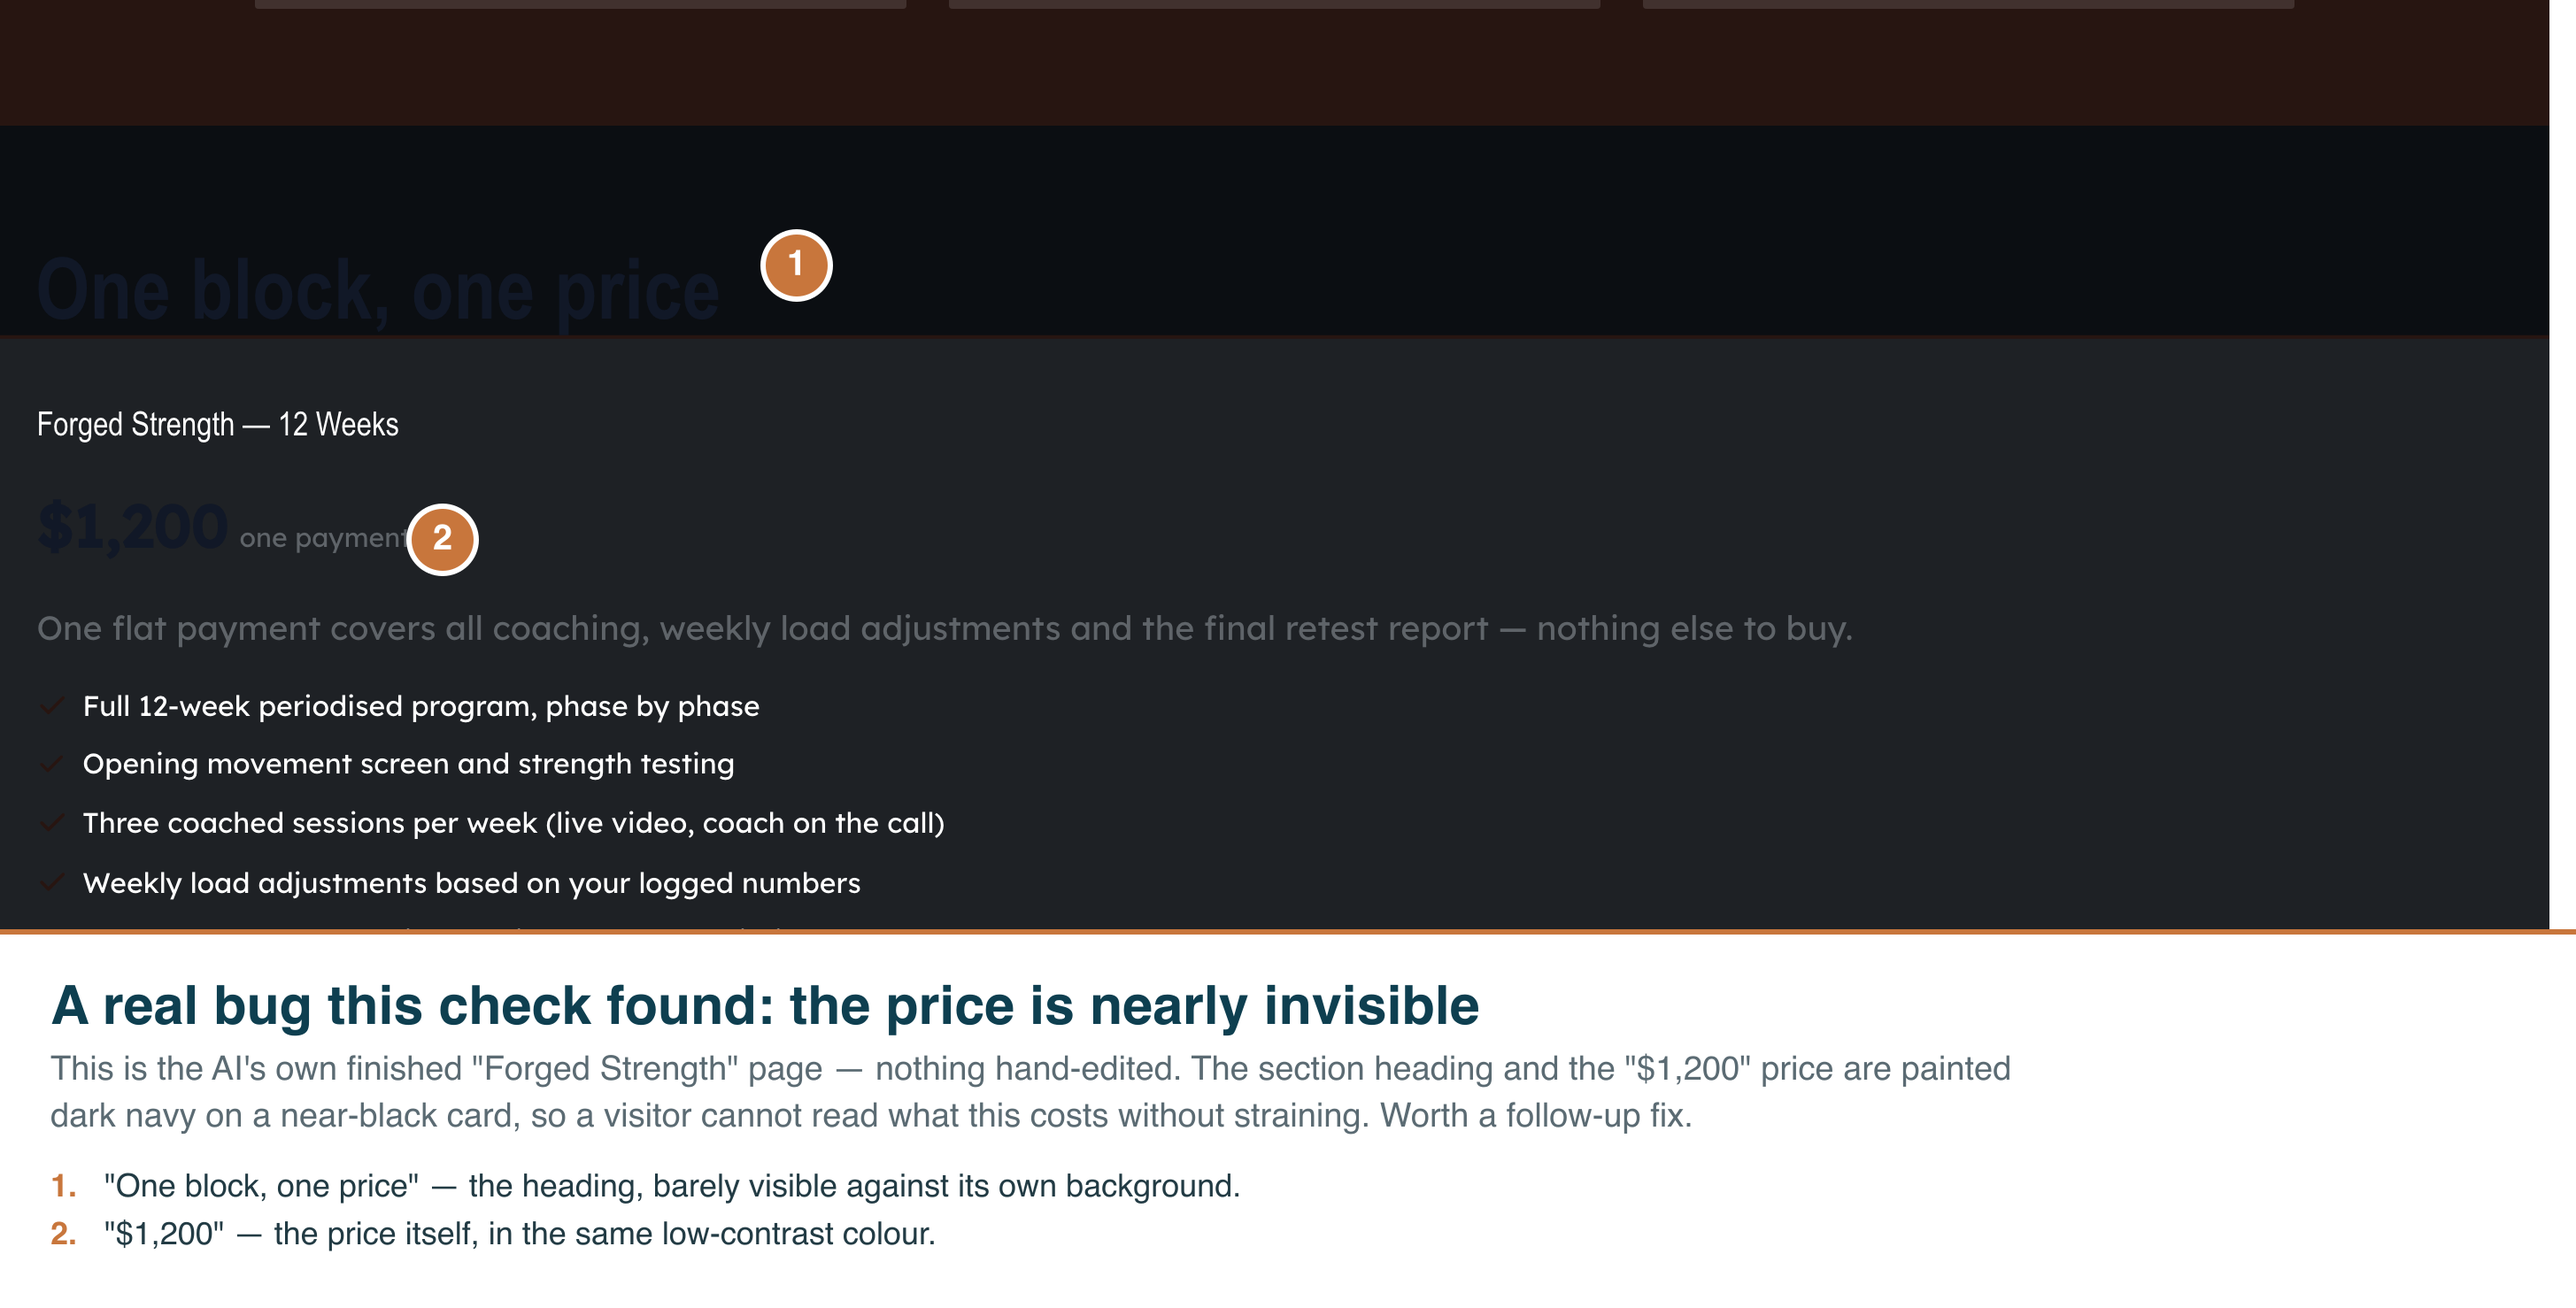
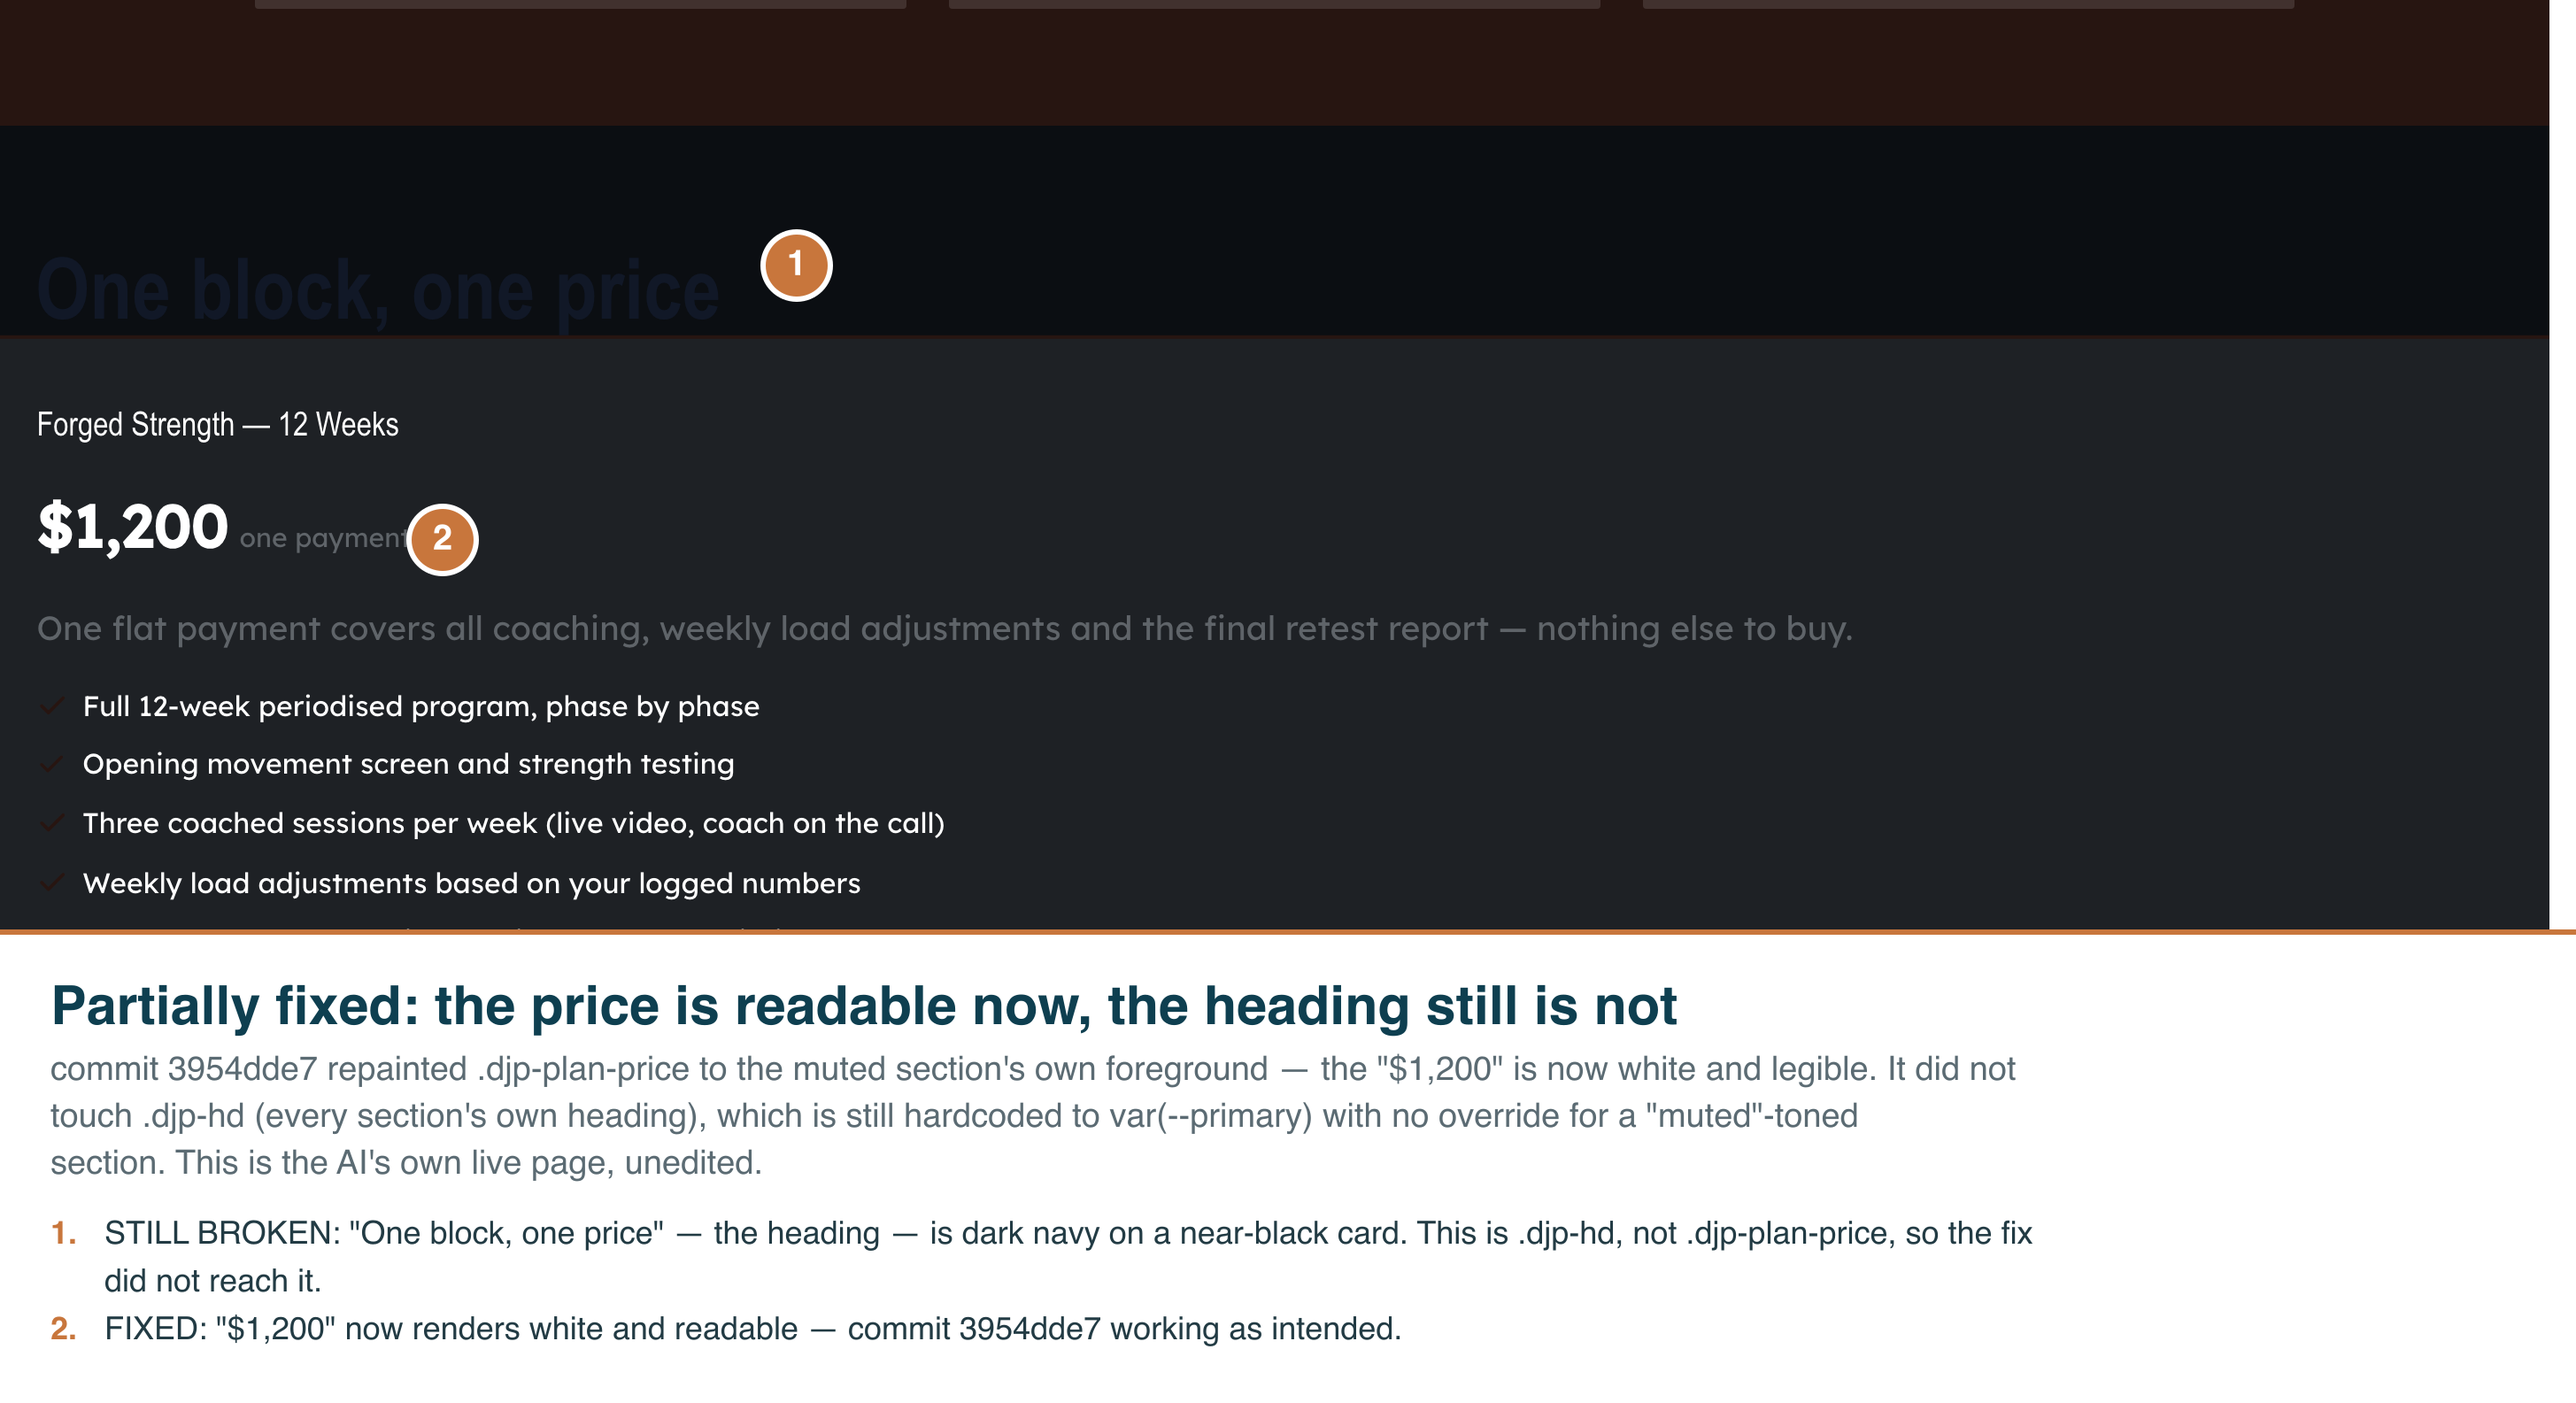
docs(builder): re-capture verification screenshots after two CSS fixes
54ed0449 (paint .djp-page with the active palette's paper/ink) and
3954dde7 (repaint a muted pricing plan's price with the tone's own
foreground) landed on top of the design-system verification work.
Neither funnel's stored document changed, only the stylesheet.

Verified each page by probing computed styles directly rather than
assuming from the source diff:

- Camp (07/08/09): re-shot. The page wrapper fix is visually large here
  - Ember is a dark-seeded palette, so the page now correctly reads as
  dark even with "Tone" stored as "Light"; captions rewritten to match
  what the image actually shows instead of the stored tone label.
- Sales (05/06): re-shot. The page-wrapper fix does not touch it (tone
  "dark" already painted the brand pair); the pricing-price fix does -
  "$1,200" is now white and legible.
- Waitlist (01/02/03): confirmed byte-identical (no active palette, no
  pricing section) and left alone.

The pricing bug is only half fixed, not fully: 3954dde7 repainted
.djp-plan-price but not .djp-hd, so the pricing section's own heading
("One block, one price") is still dark-on-near-black on the live page
today. 10-sales-pricing-contrast-bug.png and index.html were rewritten
to show and say that precisely, rather than present a partially-fixed
bug as either fully broken or fully fixed.

diff --git a/screenshots/builder-design-variety/index.html b/screenshots/builder-design-variety/index.html
@@ -35,11 +35,16 @@
   <section>
     <h2>At a glance</h2>
     <table>
-      <tr><th>Brief</th><th>Palette</th><th>Tone (as built)</th><th>Font</th><th>Density</th><th>Radius</th><th>Sections</th></tr>
+      <tr><th>Brief</th><th>Palette</th><th>Tone (stored)</th><th>Font</th><th>Density</th><th>Radius</th><th>Sections</th></tr>
       <tr><td>Waitlist (calm, minimal)</td><td>default</td><td>light</td><td>default</td><td>default</td><td>soft</td><td>6 — form, proof, bullets, faq, cta, footer</td></tr>
       <tr><td>Sales (bold, dark, urgent)</td><td>ink</td><td>dark</td><td>bold</td><td>tight</td><td>sharp</td><td>9 — hero, bullets, proof, steps, testimonial, pricing, faq, cta, footer</td></tr>
-      <tr><td>Camp (vibrant, playful)</td><td>ember</td><td>light</td><td>bold</td><td>tight</td><td>round</td><td>9 — hero, proof, bullets, steps, testimonial, pricing, faq, cta, footer</td></tr>
+      <tr><td>Camp (vibrant, playful)</td><td>ember</td><td>light*</td><td>bold</td><td>tight</td><td>round</td><td>9 — hero, proof, bullets, steps, testimonial, pricing, faq, cta, footer</td></tr>
     </table>
+    <p class="meta">
+      * "Tone (stored)" is the value in the <code>Page design</code> panel, not a description of how the
+      page actually looks. Ember is a dark-seeded palette (near-black paper, white ink), so the camp page
+      reads as a dark page even with "Tone" left on "Light" — see the fix note below.
+    </p>
   </section>
 
   <section>
@@ -71,22 +76,50 @@
   <section>
     <h2>07-09 — Camp: "vibrant, playful, family-friendly... energetic, colourful"</h2>
     <p class="meta">/admin/funnels/&lt;id&gt;/edit/&lt;stepId&gt; and /preview/camp-kfcsg</p>
-    <img src="07-camp-builder-theme-panel.png" alt="The builder screen for the camp page, mid self-review, with the Page design panel open showing the Ember palette.">
-    <img src="08-camp-preview-light.png" alt="The camp page as the AI built it: bright red, green and black, 9 sections including a day-by-day schedule.">
-    <img src="09-camp-preview-dark.png" alt="The same camp page after switching Tone to dark by hand.">
+    <img src="07-camp-builder-theme-panel.png" alt="The builder screen for the camp page, with the Page design panel open showing the Ember palette, after a stylesheet fix.">
+    <img src="08-camp-preview-light.png" alt="The camp page as the AI built it, after the fix: the FAQ section is now a readable near-black band instead of white-on-white.">
+    <img src="09-camp-preview-dark.png" alt="The same camp page with Tone switched to Dark by hand: the FAQ band turns Ember's red brand colour instead of near-black.">
   </section>
 
   <section class="note">
-    <h2>A real bug this check found</h2>
-    <img src="10-sales-pricing-contrast-bug.png" alt="The pricing section's heading and price rendered in dark navy text on a near-black card, almost unreadable.">
+    <h2>Bug #1 (found here, now fixed): a dark-seeded palette on a "light" page was unreadable</h2>
     <p>
-      This is not a screenshot artefact and not caused by the light/dark toggle below — it is present
-      on the AI's own finished page, in its own chosen "dark" tone, before any hand edit. The
-      <code>pricing</code> section's <code>style.tone: "muted"</code> resolves to a card whose heading
-      and price text stay a dark ink colour instead of switching to something readable against a
-      near-black background. It reproduces in both the as-built dark render and the hand-toggled light
-      one. Filed here rather than fixed, since Task 12 is verification, not a design-system patch —
-      see <code>task-12-report.md</code> for the exact section/style values.
+      Screenshots 07-09 above were re-captured after this landed. The page wrapper (<code>.djp-page</code>)
+      never painted the active palette's own background — only <code>data-page-tone="dark"</code> had a
+      rule, and it painted the brand colour, never the palette's "paper" tone. "Ember" seeds a DARK paper
+      (near-black) with a light ink (white), so on this camp page — <code>theme.tone: "light"</code> — the
+      wrapper stayed the host's own unpainted white, and any section relying on that page background
+      (here, the FAQ) rendered Ember's white ink text on that white ground: <strong>invisible questions</strong>.
+      Five of the twelve presets are dark-seeded and were affected the same way. Fixed in commit
+      <code>54ed0449</code>: the wrapper now paints the palette's own background/foreground pair, so a
+      dark-seeded palette reads as a dark page — correctly — even when "Tone" is still set to "Light".
+      Toggling "Tone" to "Dark" (09) now does something different from what it would on a light-seeded
+      palette: it paints the page's brand colour (a red) over those same sections instead of the palette's
+      near-black paper, since the tone override always wins over the palette's own ground.
+    </p>
+  </section>
+
+  <section class="note">
+    <h2>Bug #2 (found here): the pricing section — <em>partially</em> fixed, not fully</h2>
+    <img src="10-sales-pricing-contrast-bug.png" alt="The pricing section's price is now white and readable; its own heading is still dark navy on a near-black card.">
+    <p>
+      Originally reported here: the sales page's <code>pricing</code> section (<code>style.tone: "muted"</code>)
+      rendered both its heading ("One block, one price") and its price ("$1,200") in dark navy ink on a
+      near-black card — <code>.djp-plan-price</code> was hardcoded to <code>color: var(--primary)</code>
+      with no override for a muted section, the same way <code>accent</code>/<code>dark</code> sections
+      already had one. Commit <code>3954dde7</code> fixed <strong>the price</strong> by extending that same
+      <code>color: inherit</code> treatment to <code>.djp-plan-price</code> on a muted tone — confirmed
+      above, it is now white and reads clearly.
+    </p>
+    <p>
+      <strong>It did not fix the section's own heading.</strong> <code>.djp-hd</code> (every section
+      heading in this design system) is separately hardcoded to <code>color: var(--primary)</code>, and
+      only <code>accent</code>/<code>dark</code> tones get a <code>color: inherit</code> override for it —
+      <code>muted</code> still does not. So "One block, one price" is still dark navy on a near-black card,
+      on the AI's own live page, right now, with no hand edit involved. This is the same root cause as bug
+      #1 above (a hardcoded token never proven against a tone/palette combination it can actually meet),
+      recurring in a different element. Reported, not fixed — see <code>task-12-report.md</code> for the
+      exact lines.
     </p>
   </section>
 
@@ -126,6 +159,14 @@
         kept revising it afterwards (the pricing copy and price changed after the first capture), so
         05/06 were re-shot once the document was confirmed to have stopped changing for good. The
         waitlist and camp pages did not drift.
+      </li>
+      <li>
+        <strong>07-09 and 05/06 were re-captured after two stylesheet fixes landed</strong> (bugs #1 and #2
+        above) — same stored documents, same builder settings, only the CSS changed. 10 was re-shot to
+        show the current, still-partial state rather than leave a fixed screenshot captioned as broken, or
+        a broken one captioned as fixed. 01-04 and 02/03 (waitlist) were checked and confirmed unaffected —
+        waitlist has no active palette and no <code>pricing</code> section, so neither fix's gate applies
+        to it; verified by probing <code>.djp-page</code>'s computed background directly, not assumed.
       </li>
     </ul>
   </section>
